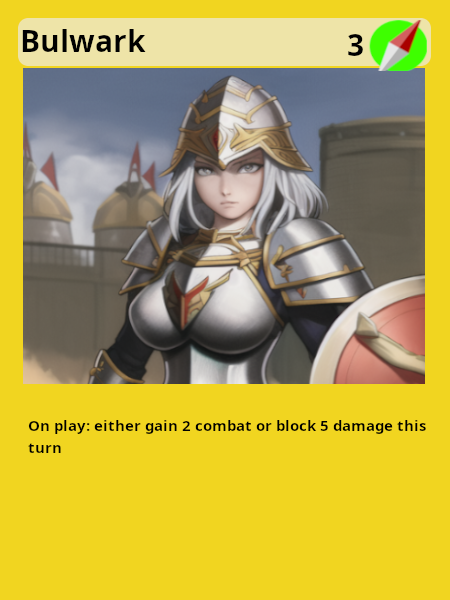
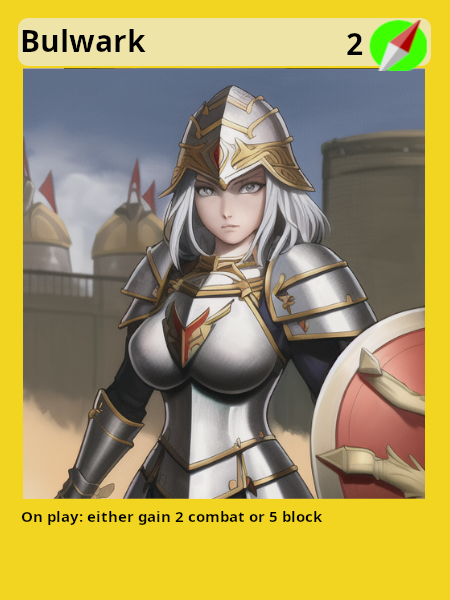
tweak bulwark cost

diff --git a/internal/cards/bulwark.go b/internal/cards/bulwark.go
@@ -20,7 +20,7 @@ func (r *Bulwark) GetDescription() string {
 }
 func (r *Bulwark) GetCost() Cost {
 	cost := NewCost()
-	cost.AddResource(RESOURCE_NAME_EXPLORATION, 3)
+	cost.AddResource(RESOURCE_NAME_EXPLORATION, 2)
 	return cost
 }
 func (r *Bulwark) OnPlay() {
